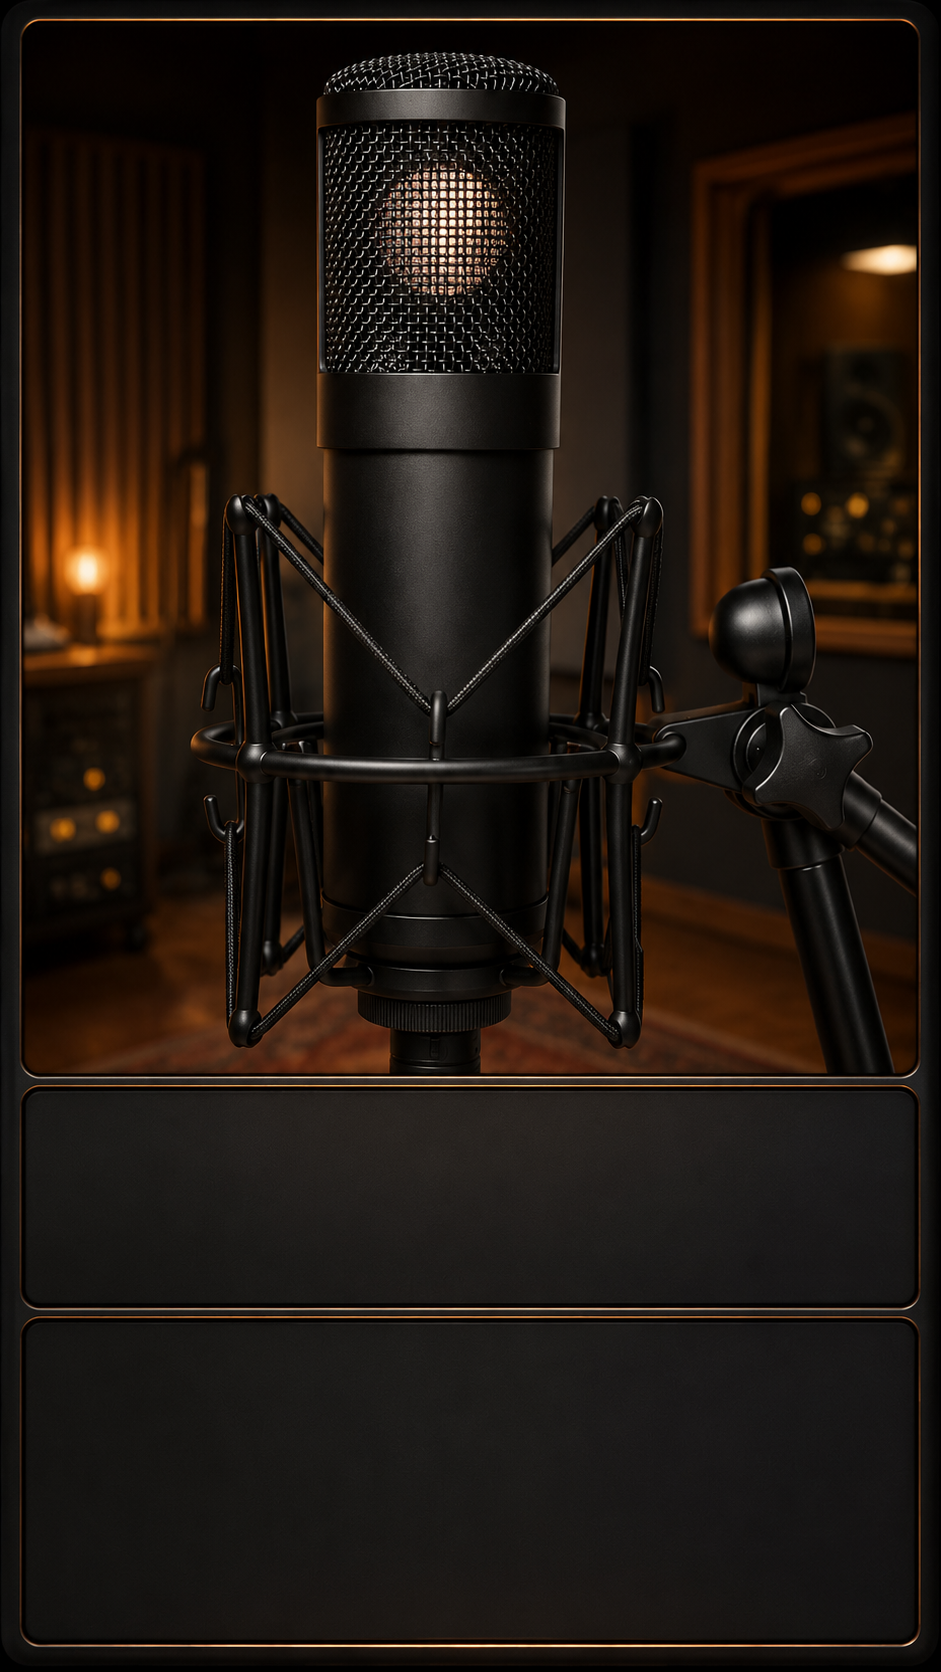
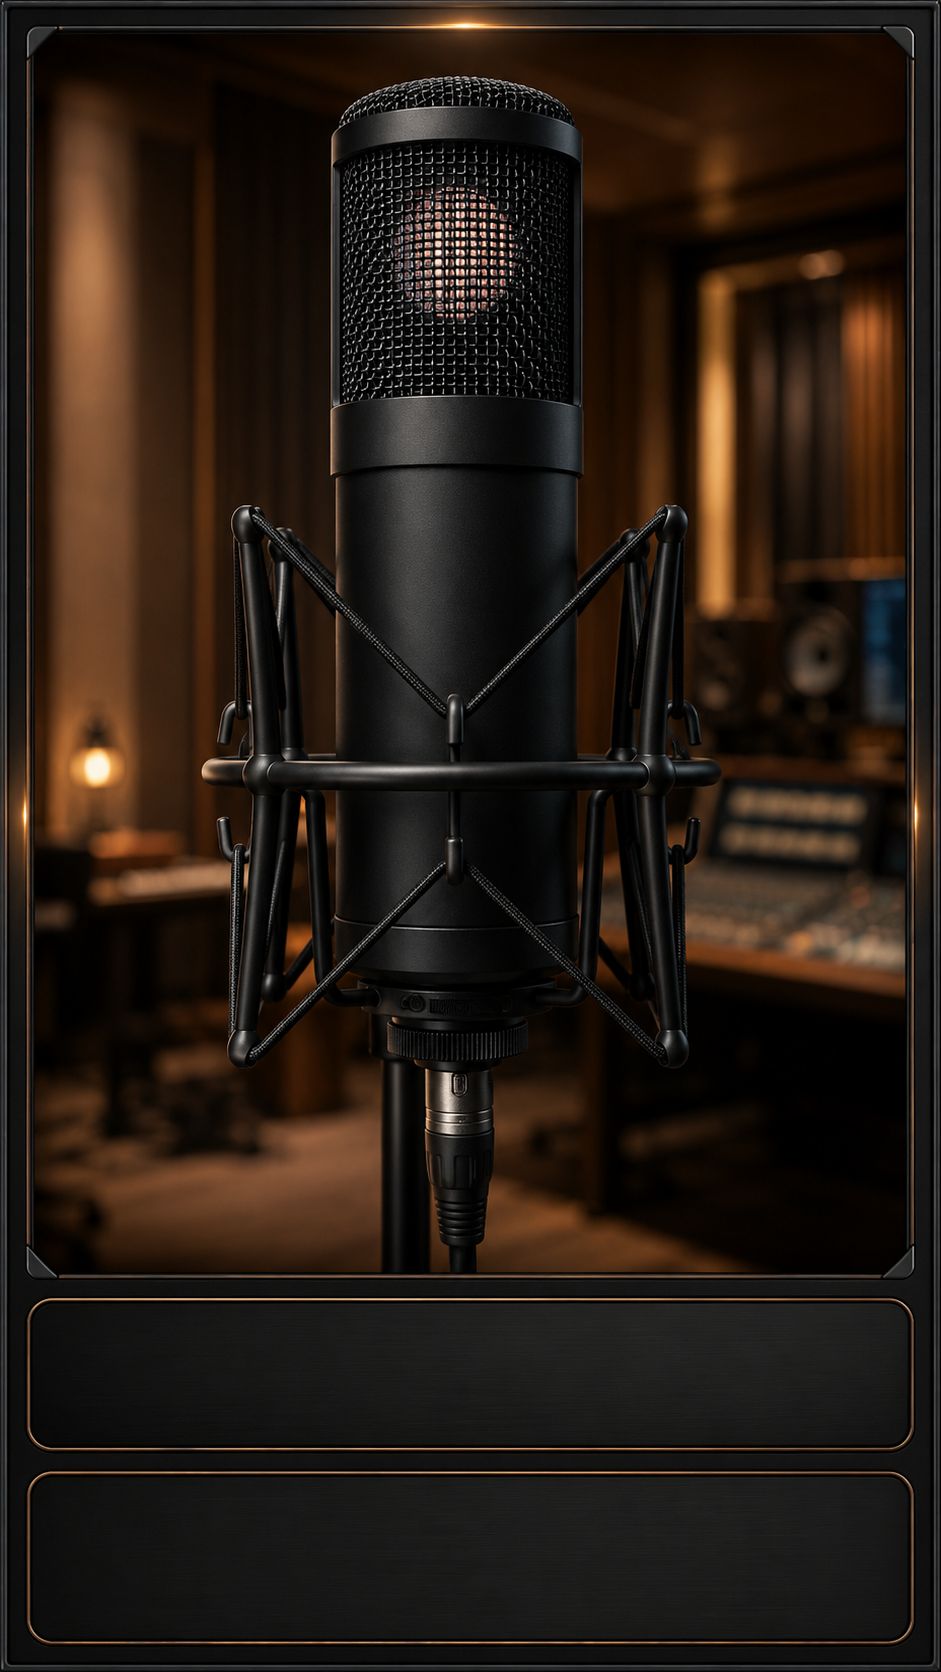
Move source selector below blend on new layout

diff --git a/Source/PluginEditor.cpp b/Source/PluginEditor.cpp
@@ -86,13 +86,14 @@ SourceMicSelector::SourceMicSelector (RodeM2ToSlateML1AudioProcessor& processorT
 
 bool SourceMicSelector::hitTest (int, int y)
 {
-    return menuOpen || y < juce::roundToInt (getHeight() * 0.42f);
+    const auto buttonHeight = juce::roundToInt (juce::jmin (34.0f, getHeight() * 0.42f));
+    return menuOpen || y >= getHeight() - buttonHeight;
 }
 
 void SourceMicSelector::paint (juce::Graphics& g)
 {
     auto bounds = getLocalBounds().toFloat();
-    const auto buttonArea = bounds.removeFromTop (juce::jmin (38.0f, getHeight() * 0.42f)).reduced (0.5f);
+    const auto buttonArea = bounds.removeFromBottom (juce::jmin (34.0f, getHeight() * 0.42f)).reduced (0.5f);
     const auto selectedIndex = processor.getSourceMicIndex();
 
     g.setColour (juce::Colours::black.withAlpha (0.78f));
@@ -121,10 +122,12 @@ void SourceMicSelector::paint (juce::Graphics& g)
     if (! menuOpen)
         return;
 
+    const auto menuBottom = buttonArea.getY() - 2.0f;
+    const auto menuHeight = juce::jmin (58.0f, juce::jmax (0.0f, menuBottom));
     const auto menuArea = juce::Rectangle<float> (buttonArea.getX(),
-                                                 buttonArea.getBottom() + 2.0f,
+                                                 menuBottom - menuHeight,
                                                  buttonArea.getWidth(),
-                                                 juce::jmin (58.0f, static_cast<float> (getHeight()) - buttonArea.getBottom() - 2.0f));
+                                                 menuHeight);
 
     g.setColour (juce::Colours::black.withAlpha (0.95f));
     g.fillRoundedRectangle (menuArea, 7.0f);
@@ -157,9 +160,10 @@ void SourceMicSelector::mouseDown (const juce::MouseEvent& event)
 {
     grabKeyboardFocus();
 
-    const auto buttonHeight = juce::roundToInt (juce::jmin (38.0f, getHeight() * 0.42f));
+    const auto buttonHeight = juce::roundToInt (juce::jmin (34.0f, getHeight() * 0.42f));
+    const auto buttonTop = getHeight() - buttonHeight;
 
-    if (event.y < buttonHeight)
+    if (event.y >= buttonTop)
     {
         menuOpen = ! menuOpen;
         repaint();
@@ -169,9 +173,11 @@ void SourceMicSelector::mouseDown (const juce::MouseEvent& event)
     if (! menuOpen)
         return;
 
-    const auto menuTop = buttonHeight + 2;
+    const auto menuBottom = buttonTop - 2;
+    const auto menuHeight = juce::jmin (58, juce::jmax (0, menuBottom));
+    const auto menuTop = menuBottom - menuHeight;
     const auto names = EQModel::getProfileNames();
-    const auto rowHeight = static_cast<float> (getHeight() - menuTop) / static_cast<float> (juce::jmax (1, names.size()));
+    const auto rowHeight = static_cast<float> (juce::jmax (1, menuHeight)) / static_cast<float> (juce::jmax (1, names.size()));
     const auto index = juce::jlimit (0, names.size() - 1, static_cast<int> ((event.y - menuTop) / rowHeight));
 
     selectProfile (index);
@@ -269,26 +275,22 @@ void RodeM2ToSlateML1AudioProcessorEditor::paintOverChildren (juce::Graphics& g)
 
     g.setColour (panelGold.withAlpha (0.84f));
     g.setFont (juce::FontOptions (12.0f).withStyle ("Bold"));
-    g.drawFittedText (valueText, scaleRect (0.425f, 0.742f, 0.15f, 0.025f), juce::Justification::centred, 1);
+    g.drawFittedText (valueText, scaleRect (0.425f, 0.892f, 0.15f, 0.025f), juce::Justification::centred, 1);
 
     g.setFont (juce::FontOptions (22.0f));
-    g.drawFittedText ("B L E N D", scaleRect (0.340f, 0.846f, 0.320f, 0.045f), juce::Justification::centred, 1);
+    g.drawFittedText ("B L E N D", scaleRect (0.340f, 0.870f, 0.320f, 0.040f), juce::Justification::centred, 1);
 
-    g.setFont (juce::FontOptions (20.0f));
-    g.drawFittedText ("0", scaleRect (0.170f, 0.898f, 0.090f, 0.040f), juce::Justification::centred, 1);
-    g.drawFittedText ("200%", scaleRect (0.740f, 0.898f, 0.120f, 0.040f), juce::Justification::centred, 1);
-
-    g.setFont (juce::FontOptions (13.0f));
-    g.drawFittedText ("SOURCE", scaleRect (0.147f, 0.953f, 0.180f, 0.032f), juce::Justification::centred, 1);
-    g.drawFittedText ("EMULATION", scaleRect (0.665f, 0.953f, 0.210f, 0.032f), juce::Justification::centred, 1);
+    g.setFont (juce::FontOptions (14.0f));
+    g.drawFittedText ("0", scaleRect (0.170f, 0.913f, 0.090f, 0.030f), juce::Justification::centred, 1);
+    g.drawFittedText ("200%", scaleRect (0.740f, 0.913f, 0.120f, 0.030f), juce::Justification::centred, 1);
 
 }
 
 void RodeM2ToSlateML1AudioProcessorEditor::resized()
 {
-    sourceMicSelector.setBounds (scaleRect (0.287f, 0.662f, 0.426f, 0.100f));
-    eqCurve.setBounds (scaleRect (0.082f, 0.710f, 0.836f, 0.055f));
-    blendSlider.setBounds (scaleRect (0.200f, 0.886f, 0.600f, 0.040f));
+    eqCurve.setBounds (scaleRect (0.082f, 0.785f, 0.836f, 0.070f));
+    blendSlider.setBounds (scaleRect (0.200f, 0.905f, 0.600f, 0.040f));
+    sourceMicSelector.setBounds (scaleRect (0.287f, 0.918f, 0.426f, 0.070f));
 }
 
 void RodeM2ToSlateML1AudioProcessorEditor::timerCallback()
